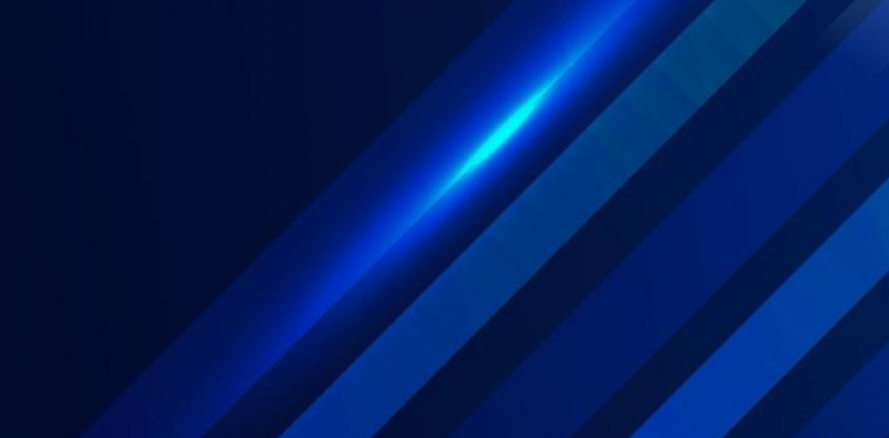
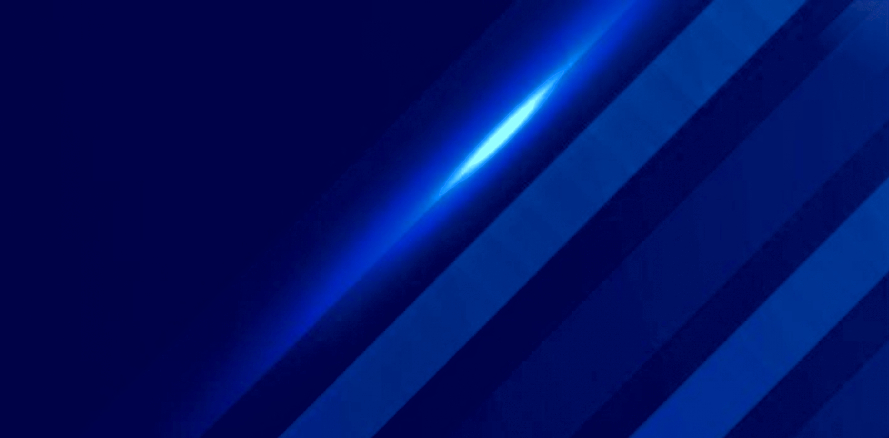
Adição da pagina "serviços" e correções
Foi adicionado a pagina serviços com suas devidas configurações. E foi corrigido o design para ficar mais atrativo

diff --git a/src/style.css b/src/style.css
@@ -8,8 +8,8 @@
 
 body{
     display: block;
-    background-image: url(../assets/Backgrund-3.jpg) ;
-    background-size:cover;
+    background-image: url(../assets/Backgrund-2.jpg) ;
+    background-size: contain;
 }
 ul{
     list-style: none;
@@ -67,14 +67,13 @@ input[type="checkbox"]:checked ~ div {
 .cabecalho{
     width: 100%;
     height: 100%;
-    background-color: rgba(0, 0, 0, 0.5);
+    background-color: rgba(43, 43, 43, 0.925);
    
 }
 .hambuguer{
     position: absolute;
     padding-top: 7PX;
     padding-left: 5px;
-    display: flex;
     height: 45px;
 }
 
@@ -92,13 +91,12 @@ input[type="checkbox"]:checked ~ div {
 
 .corpo-site{
     display: grid;
-    min-height: 270vh;
     
 }
 
 .inicio{
     display: flex;
-    position: absolute;
+    position: relative;
     align-items: center;
     justify-content: center;
     width: 100%;
@@ -108,7 +106,7 @@ input[type="checkbox"]:checked ~ div {
 #video{
     display: flex;
     width: 900px;
-    padding-bottom: 90px;
+    padding-top: 120px;
     height: 500px;
     margin: 0 auto;
     border-radius: 10px;
@@ -117,17 +115,118 @@ input[type="checkbox"]:checked ~ div {
 .sobre{
     position: relative;
     display: flex;
-    top: 200px;
-    padding: 20px;
-    background-color: rgba(0, 0, 0, 0.8);
-    width: 55%;
+    top: 190px;
+    padding: 100px 20px;
+    background-image: linear-gradient(to bottom, black, rgba(28, 103, 201, 0.952) );
+    height: 100%;
     margin: auto;
+    min-height: 70vh;
 }
 .sobre p{
     display: flex;
     margin: auto;
-    color: #fff;
+    color: #ffffff;
+    padding: 80px 20px;
+    background-color: rgba(0, 0, 0, 0.200);
+    border-radius: 20px;
+    width: 80%;
     align-items: center;
     text-align: center;
     font-size: 25px;
+}
+
+.servicos{
+    padding-top: 200px;
+    display: grid;
+    position: relative;
+    top: 390px;
+    width: 100%;
+    align-items: center;
+    justify-content: center;
+    margin: auto;
+    min-height: 100vh;
+    grid-template-columns: 220px 390px 200px;
+    grid-auto-rows: 280px;
+    background-image: url(../assets/Backgrund-3.jpg) ;
+    background-size: cover;
+    
+}
+
+.botao-servicos{
+    position: relative;
+   
+    display: flex;
+    bottom: 145px;
+    height: 43px;
+    border-color: #fff;
+    border-radius: 10px;
+    background-color: #0082fc;
+    cursor: pointer;
+}
+
+.botao-servicos:hover{
+    background-color: #fff;
+}
+
+
+#Botao-telefonia{
+    left: 45px;
+    width: 50%;
+}
+
+#Botao-voip{
+    left: 148px;
+    width: 20%;
+}
+
+#Botao-controle{
+    left: 45px;
+    width: 90%;
+}
+
+
+#Botao-cftv{
+    left: 60px;
+    width: 35%;
+}
+
+#Botao-rede{
+    left: 150px;
+    width: 17%;
+}
+#Botao-help{
+    left: 65px;
+    width: 70%;
+}
+
+
+#Telefonia{
+    width: 215px;
+    height: 250px;
+}
+
+#Voip{
+    padding-left: 15px;
+    width: 90%;
+    height: 250px;
+}
+
+#Controle-de-acesso{
+    width: 275px;
+    height: 250px;
+}
+
+#CFTV{
+    width: 215px;
+    height: 250px;
+}
+
+#Rede{
+    width: 90%;
+    padding-left: 15px;
+    height: 250px;
+}
+
+#Help-desk{
+    height: 250px;
 }

diff --git a/src/index.html b/src/index.html
@@ -46,22 +46,48 @@
     
         </div>
         
-
+<div></div>
    
     <div class="sobre"> 
         <p>A MR Rualonga é uma empresa no segmento de Tecnologia, Informática, Telefonia e controle de acesso.
             Atua na prestação de serviços, venda de suprimentos e equipamentos para soluções de empresas dos mais variados segmentos.
             Nossos serviços é de acordo com a necessidade do cliente, busca parcerias reais e duradouras para maior integração.</p>
     </div>
-   <!--
-  <div class="servicos">
 
+  <div class="servicos">
+    <div>
+        <img id="Telefonia" src="/assets/Telefonia.jpg" alt="Telefonia">
+        <input type="button" id="Botao-telefonia" class="botao-servicos" value="Telefonia">
     </div>
+    <div>
+        <img id="Voip" src="/assets/Voip.jpg" alt="">
+        <input type="button" id="Botao-voip" class="botao-servicos" value="Voip">
+    </div>
+    <div>
+        <img id="Controle-de-acesso" src="/assets/Controle-de-acesso.jpg" alt="">
+        <input type="button" id="Botao-controle" class="botao-servicos" value="Controle-de-acesso">
+    </div>
+    <div>
+        <img id="CFTV" src="/assets/CFTV.jpg" alt="">
+        <input type="button" id="Botao-cftv" class="botao-servicos" value="CFTV">
+    </div>
+    <div>
+        <img id="Rede" src="/assets/Rede.jpg" alt="">
+        <input type="button" id="Botao-rede" class="botao-servicos" value="Rede">
+    </div>
+    <div>
+        <img id="Help-desk" src="/assets/Help-desk-service.jpg" alt="">
+        <input type="button" id="Botao-help" class="botao-servicos" value="Help-desk">
+    </div>
+    </div>
+
 
     <div class="clientes">
 
     </div>
 
+    
+<!--
     <div class="contato">
 
     </div> -->
